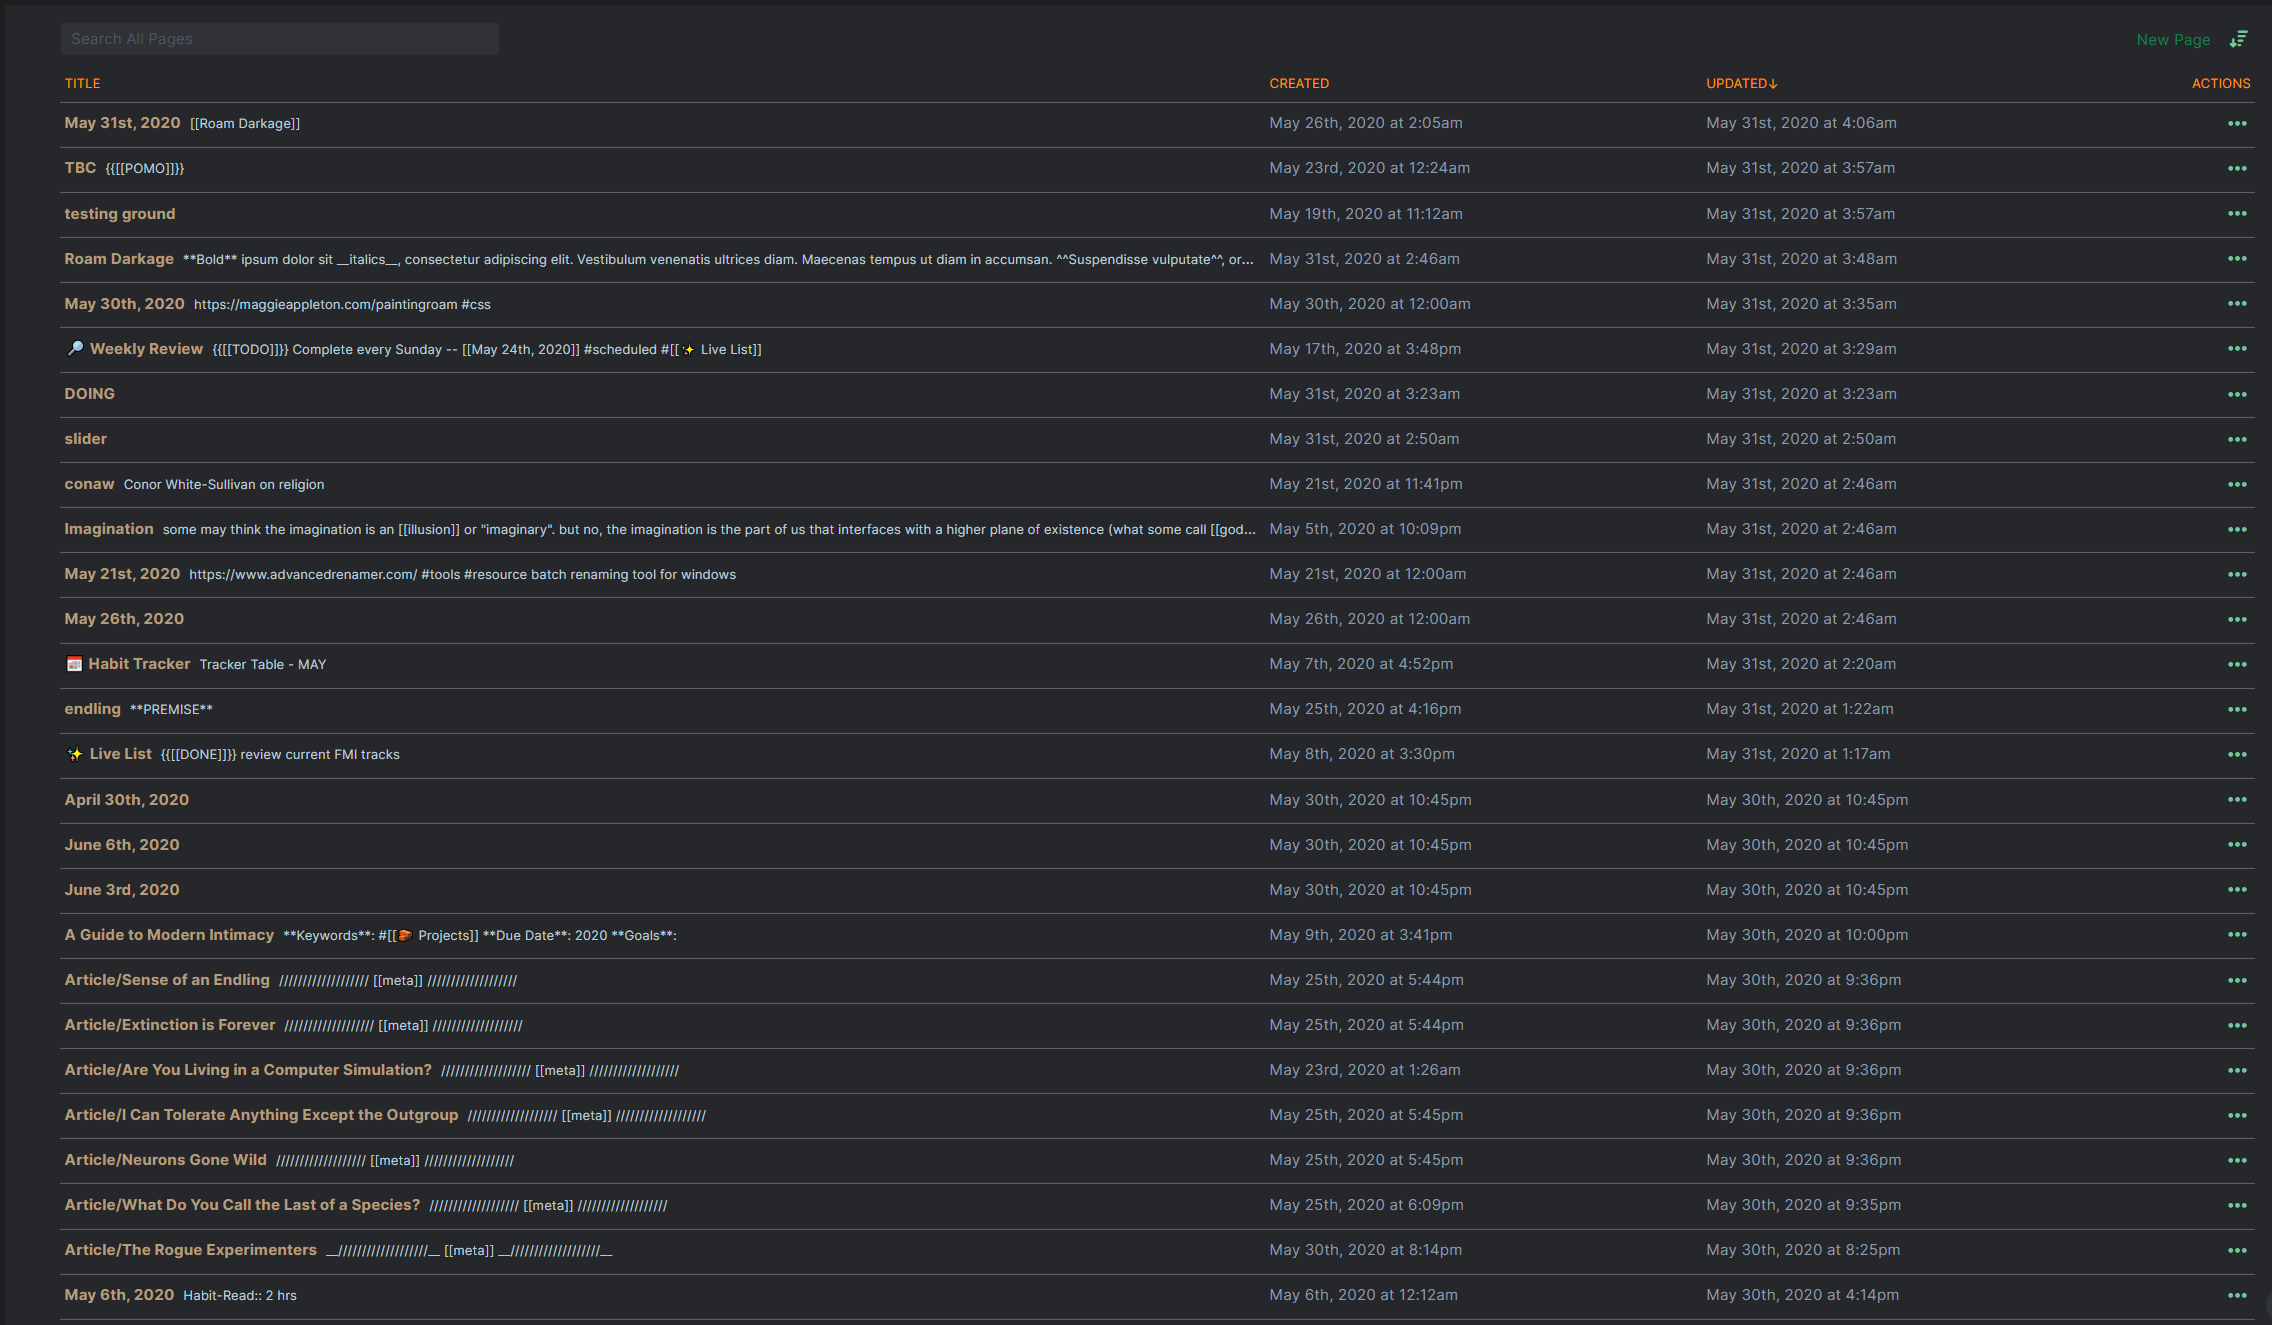
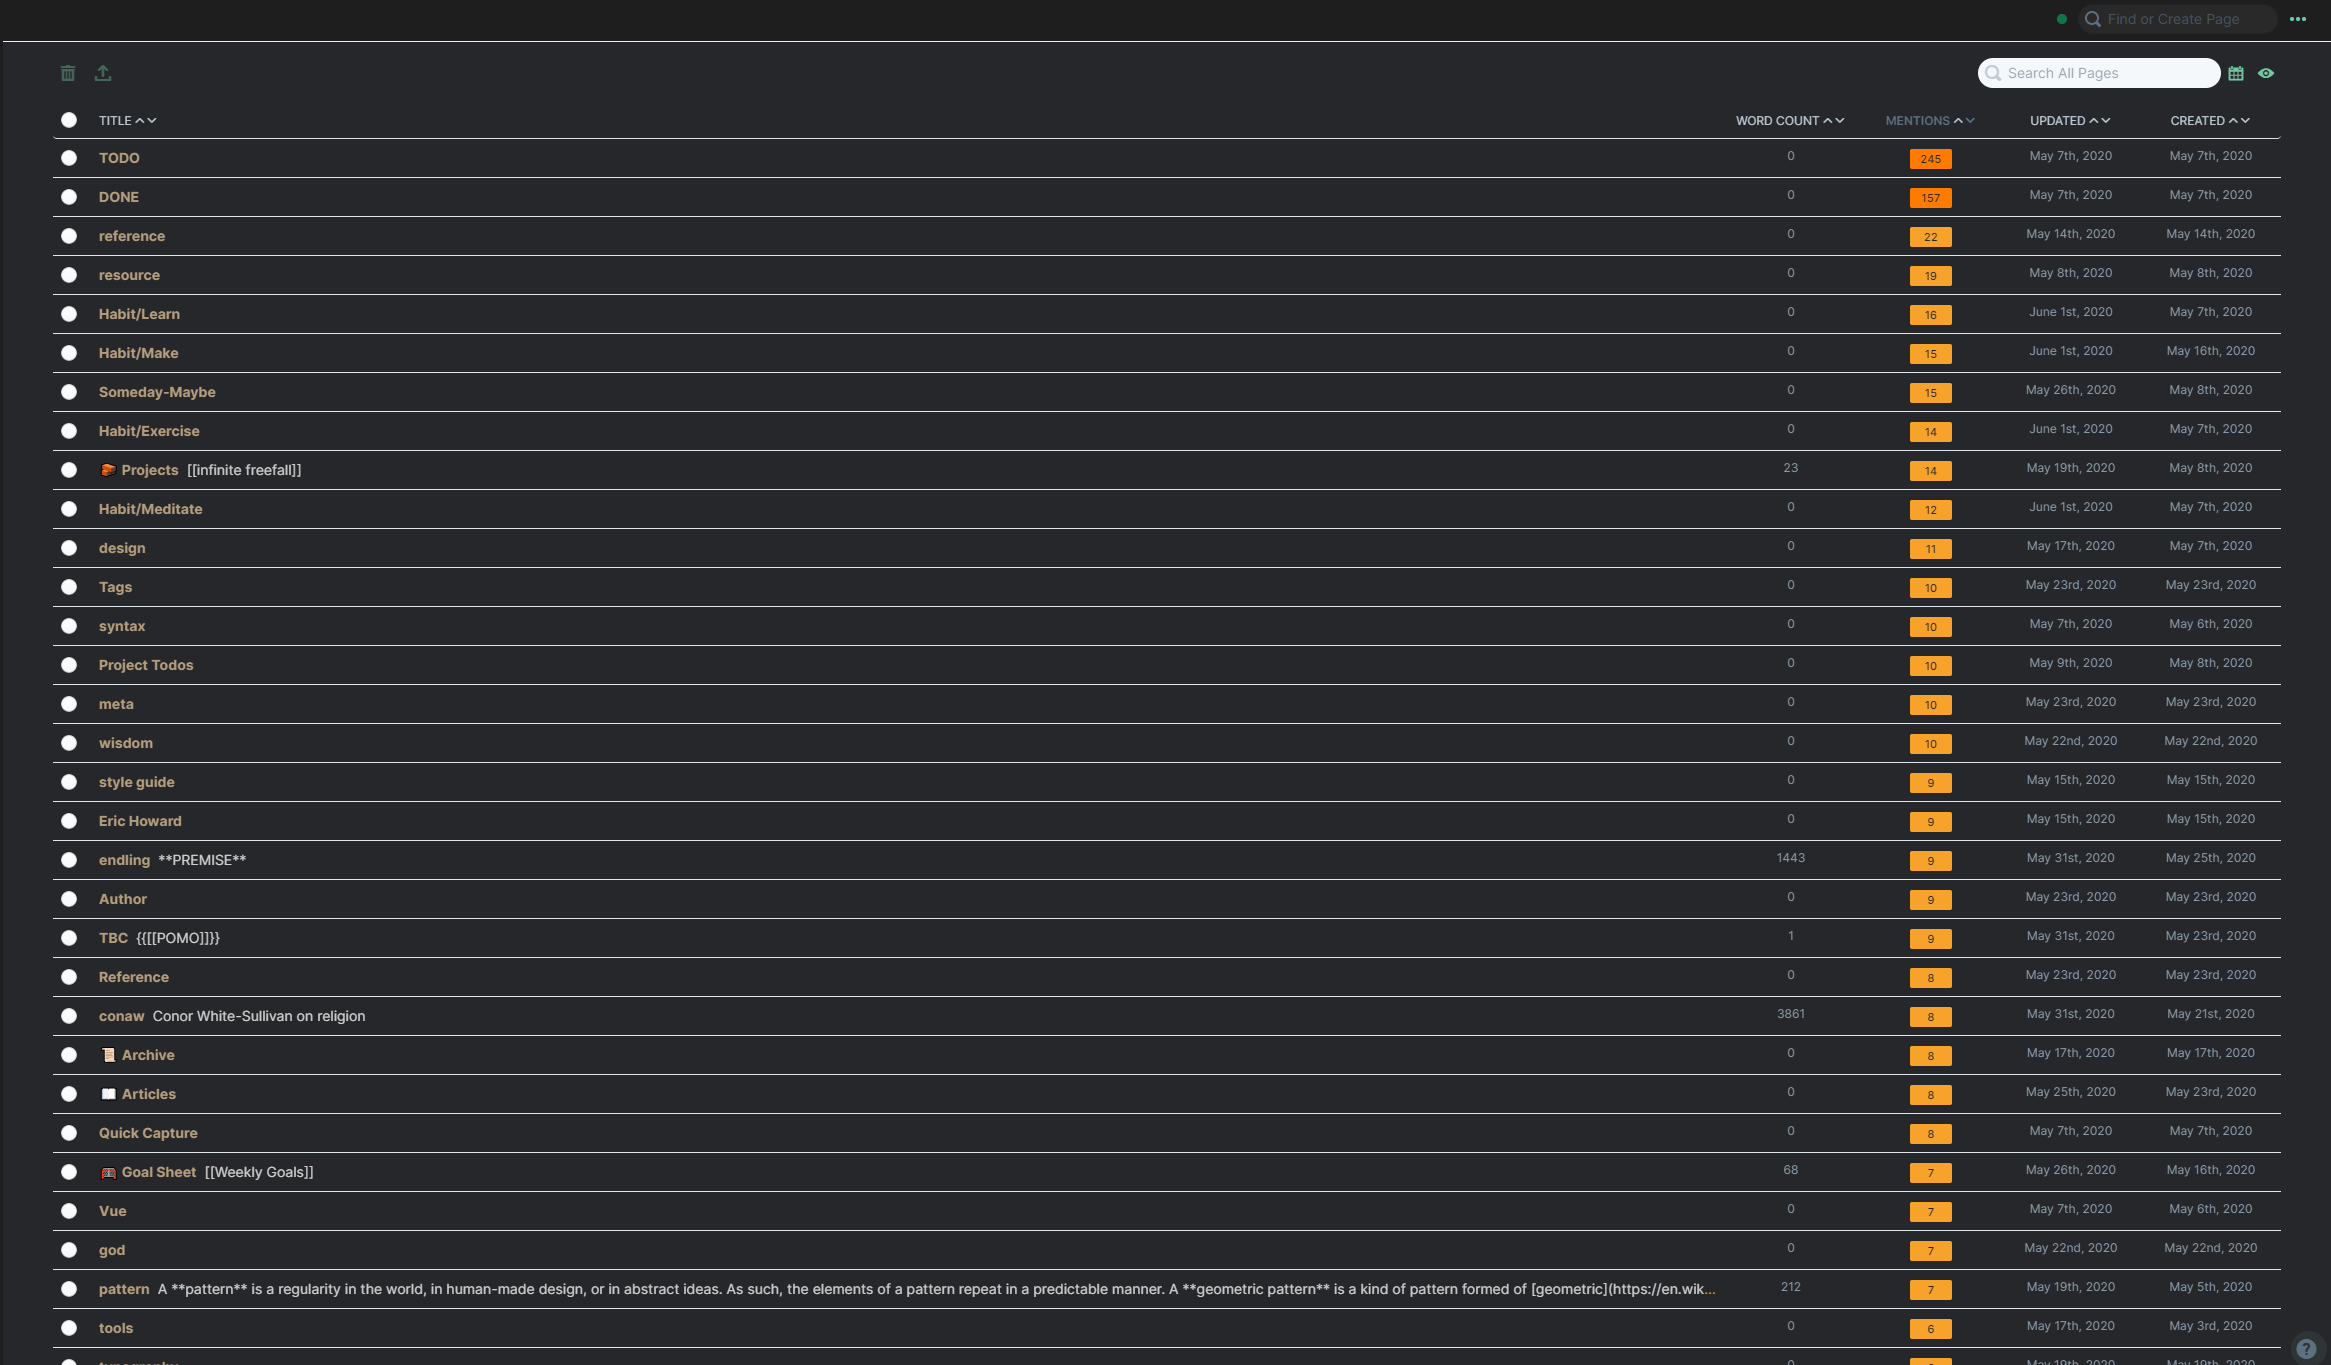
image updates, readme, all pages fixes

Changed region(s): [[0.0312, 0.0, 1.0, 1.0]]

diff --git a/Roam_Dark_Age.css b/Roam_Dark_Age.css
@@ -185,6 +185,9 @@ span {
     color: #65bf38 !important;
 }
 
+.bp3-input-group input {
+    color: black !important;
+}
 /*//////////////*/
 /*              */
 /*     ToDos    */
@@ -339,9 +342,13 @@ code {
     background-color: #26272a
 }
 
+.title-children-text {
+    color: #d0d0d0
+}
+
 /* Page Name */
 .bp3-text-overflow-ellipsis a {
-    color: #b49d7d !important
+    color: #c3bca8 !important
 }
 
 .bp3-text-overflow-ellipsis a:hover {
@@ -358,7 +365,7 @@ code {
 /* Mentions Pill */
 .rm-clickable-pill, .rm-clickable-pill.level1-pill, .rm-clickable-pill.level2-pill, .rm-clickable-pill.level3-pill, .rm-clickable-pill.level4-pill {
     color: #26272a;
-    background: #75c6a3;
+    background: #ffbb5c;
     opacity: 1 !important;
     padding: 2px 10px !important;
     width: 42px;
@@ -366,11 +373,11 @@ code {
 }
 
 .rm-clickable-pill.level1-pill {
-    background: #42bc88;
+    background: #f7a22b;
 }
 
 .rm-clickable-pill.level3-pill {
-    background: #00ff91;
+    background: #ff7b00;
 }
 
 .rm-clickable-pill.empty-pill {
@@ -379,7 +386,7 @@ code {
 }
 
 .rm-clickable-pill:hover {
-    background: #00f800;
+    background: #ff6f00;
 }
 
 /* Checkbox */

diff --git a/README.md b/README.md
@@ -1,6 +1,6 @@
-# Roam Dark Age
+# Dark Age
 
-This is the theme I developed for myself, as I tend to work late at night and prefer dark themes, so I figured I'd go ahead and share it should it be desired.
+This is the theme I developed for myself, as I tend to work late at night and prefer dark themes, so I figured I'd go ahead and share it should it be desired. I am updating this pretty regularly, and intend to organize and comment everything so it is more easily adaptable should something not work for you!
 
 [Copy the CSS from here!](https://github.com/shodty/Roam_Dark_Age/blob/master/Roam_Dark_Age.css)
 
